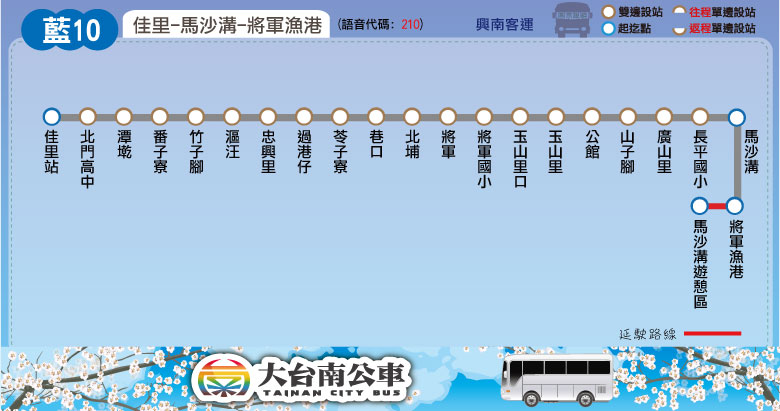
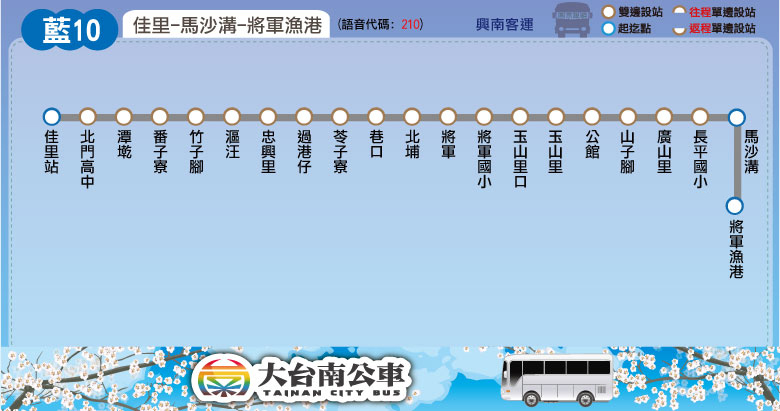
Update: b10,b25,h31,y5; Add news: blue

Changed region(s): [[0.8615, 0.4672, 0.9538, 0.7591], [0.8, 0.7883, 0.9538, 0.8467]]

diff --git a/route/fare_and_time/blue_10.js b/route/fare_and_time/blue_10.js
@@ -1,4 +1,4 @@
-blue_10_interval_name = ["佳里","番子寮","漚汪","苓子寮","將軍","山子腳","馬沙溝","將軍<br />漁港","馬沙溝<br />遊憩區"];
+blue_10_interval_name = ["佳里","番子寮","漚汪","苓子寮","將軍","山子腳","馬沙溝","將軍漁港"];
 blue_10_interval_stop = [
 ["佳里站","北門高中","潭墘"], // 佳里
 ["番子寮"], // 番子寮
@@ -7,10 +7,9 @@ blue_10_interval_stop = [
 ["北埔","將軍","將軍國小"], // 將軍
 ["玉山里口","玉山里","公館","山子腳","廣山里"], // 山子腳
 ["長平國小","馬沙溝"], // 馬沙溝
-["將軍漁港"], // 將軍漁港
-["馬沙溝遊憩區"] // 馬沙溝遊憩區
+["將軍漁港"] // 將軍漁港
 ];
-blue_10_stop_time_consume = [0,2,3,6,7,9,10,12,14,15,16,17,18,19,20,21,22,23,24,25,30,35];
+blue_10_stop_time_consume = [0,2,3,6,7,9,10,12,14,15,16,17,18,19,20,21,22,23,24,25,30];
 blue_10_fare = [
 [26],
 [26,26],
@@ -19,14 +18,13 @@ blue_10_fare = [
 [32,26,26,26,26],
 [42,33,27,26,26,26],
 [51,42,36,28,26,26,26],
-[56,47,42,34,26,26,26,26],
-[61,52,46,38,29,26,26,26,26]
+[56,47,42,34,26,26,26,26]
 ];
 // format = [time at the start stop] or
 // [time, other] or
 // [time, start_stop, end_stop, other]
-blue_10_main_stop_name = ["佳里","番子寮","漚汪","苓子寮","將軍","山子腳","馬沙溝","將軍<br />漁港","馬沙溝<br />遊憩區"];
-blue_10_main_stop_time_consume = [0, 6, 9, 14, 17, 22, 25, 30, 35];
-blue_10_important_stop = [0, 2, 6, 8]; // 佳里, 漚汪, 馬沙溝, 馬沙溝遊憩區
+blue_10_main_stop_name = ["佳里","番子寮","漚汪","苓子寮","將軍","山子腳","馬沙溝","將軍漁港"];
+blue_10_main_stop_time_consume = [0, 6, 9, 14, 17, 22, 25, 30];
+blue_10_important_stop = [0, 2, 6, 7]; // 佳里, 漚汪, 馬沙溝, 將軍漁港
 blue_10_time_go = [["06:00"],["07:20"],["08:50"],["09:30"],["10:50"],["12:30"],["13:40"],["15:10"],["16:10"],["17:00"],["17:40",0,6],["19:00"],["20:00"],["20:20"],["21:10"],["22:00"]];
-blue_10_time_return = [["06:35"],["07:55"],["09:25"],["10:05"],["11:25"],["13:05"],["14:15"],["15:45"],["16:45"],["17:35"],["18:05",6,0],["19:35"],["20:35"],["20:55"],["21:45"],["22:35"]];
+blue_10_time_return = [["06:30"],["08:00"],["09:30"],["10:10"],["11:30"],["13:10"],["14:20"],["15:50"],["16:50"],["17:40"],["18:05",6,0],["19:30"],["20:40"],["21:00"],["21:40"],["22:30"]];

diff --git a/route/fare_and_time/hsr_shuttle_h31.js b/route/fare_and_time/hsr_shuttle_h31.js
@@ -8,8 +8,8 @@ hsr_shuttle_h31_stop_time_consume = [0,10,15,20,23,27,30,33,36,40,60];
 // format = [time at the start stop] or
 // [time, other] or
 // [time, start_stop, end_stop, other]
-hsr_shuttle_h31_main_stop_name = ["原住民文化會館<br /><font color=\"red\">(假日延駛)</font>","臺南市政府","臺南站","延平郡王祠<br />(國立臺南大學)","臺南航空站","臺南都會公園","高鐵臺南站"];
-hsr_shuttle_h31_main_stop_time_consume = [0, 10, 15, 23, 36, 40, 60];
+hsr_shuttle_h31_main_stop_name = ["原住民文化會館<br /><font color=\"red\">(假日延駛)</font>","臺南市政府","興南客運<br />臺南站","延平郡王祠<br />(國立臺南大學)","臺南航空站","臺南都會公園","高鐵臺南站"];
+hsr_shuttle_h31_main_stop_time_consume = [0, 10, 15, 23, 36, 40, 55];
 hsr_shuttle_h31_important_stop = [0, 1, 4, 6]; // 桂田酒店, 奇美醫院, 高鐵臺南站
 hsr_shuttle_h31_time_go = [["05:50",1,6],["6:05",1,6,["一"]],["6:20",1,6],["6:55",1,6],["7:10",1,6],["7:30",1,6],["7:55",1,6],
 ["8:10",1,6],["8:30",1,6],["8:55",1,6],["9:10",1,6],["9:30",1,6],["9:55",1,6],["10:00"],["10:30",1,6],["10:55",1,6],["11:00"],

diff --git a/route/fare_and_time/blue_25.js b/route/fare_and_time/blue_25.js
@@ -1,14 +1,14 @@
 blue_25_interval_name = ["佳里","福南<br />山莊","篤加","七股","永吉","土城子","科工區"];
 blue_25_interval_stop = [
 ["佳里站","佳里國小"], // 佳里
-["佛天宮","多摩市社區","福南山莊"], // 福南山莊
+["佛天宮","多摩市社區","福南山莊","台灣漢藥"], // 福南山莊
 ["篤加國小","文衡殿"], // 篤加
 ["七股"], // 七股
 ["靈母宮","永吉路口"], // 永吉
 ["鹿耳門","溪埔仔","砂崙路口","聖母廟","土城子"], // 土城子
 ["成大安南校區","利佳興業","工業五路","中央軸帶公園","工業、科技二路口","工業、科技一路口","工業、本田路口","安瀚視特","南臺灣創新園區"] // 科工區
 ];
-blue_25_stop_time_consume = [0,2,3,5,7,10,11,17,23,26,29,30,31,34,35,38,41,42,43,44,45,46,47,50];
+blue_25_stop_time_consume = [0,2,3,5,7,8,10,11,17,23,26,29,30,31,34,35,38,41,42,43,44,45,46,47,50];
 blue_25_fare = [
 [26],
 [26,26],

diff --git a/blue/blue.html b/blue/blue.html
@@ -17,7 +17,7 @@
 <body>
 <script type="text/javascript">
 	block_header();
-	block_route_map(null);
+	block_route_map('因「佳里區光復路連接新生路D幹線雨水下水道新建工程」，施工路段為光復路(義民街~新生路段)，即日起至施工完成，本路線「藍幹線」往安平工業區方向不停靠招呼站「愛明橋」，請旅客就近至招呼站「佳里站」或「南佳里」搭乘。改道路徑：佳里站-文化路-中山路-進學路-延平路-新生路-原路線。');
 	block_route_info(route_interval,'興南客運','尖15離30','里程計費','http://2384.tainan.gov.tw:8080/AGPSRemoteQuery3/ajaxBus.jsp?pathId=1200&locale=zh_TW');
 	block_fare(0, null);
 	block_time_schedule('安平工業區','佳里',L_message);

diff --git a/route/fare_and_time/yellow_5.js b/route/fare_and_time/yellow_5.js
@@ -22,5 +22,5 @@ yellow_5_fare = [
 yellow_5_main_stop_name = ["新營","柳營火車站","八老爺","紅毛厝","下營廟前"];
 yellow_5_main_stop_time_consume = [0, 11, 17, 26, 30];
 yellow_5_important_stop = [0, 1, 4]; // 新營, 柳營火車站, 下營廟前
-yellow_5_time_go = [["09:30"],["11:20"],["16:00"]];
-yellow_5_time_return = [["08:50"],["12:20"],["16:40"]];
+yellow_5_time_go = [["08:20"],["09:30"],["16:00"]];
+yellow_5_time_return = [["09:00"],["12:20"],["16:40"]];

diff --git a/city_bus/city_bus_10.html b/city_bus/city_bus_10.html
@@ -17,7 +17,7 @@
 <body>
 <script type="text/javascript">
 	block_header();
-	block_route_map(null;
+	block_route_map(null);
 	block_route_info(route_interval,'府城客運','','二段票 分段點：海東國小','http://2384.tainan.gov.tw:8080/AGPSRemoteQuery3/ajaxBus.jsp?pathId=10168&locale=zh_TW');
 	block_fare(2, '海東國小');
 	block_time_schedule('臺南火車站','鹿耳門天后宮','');
